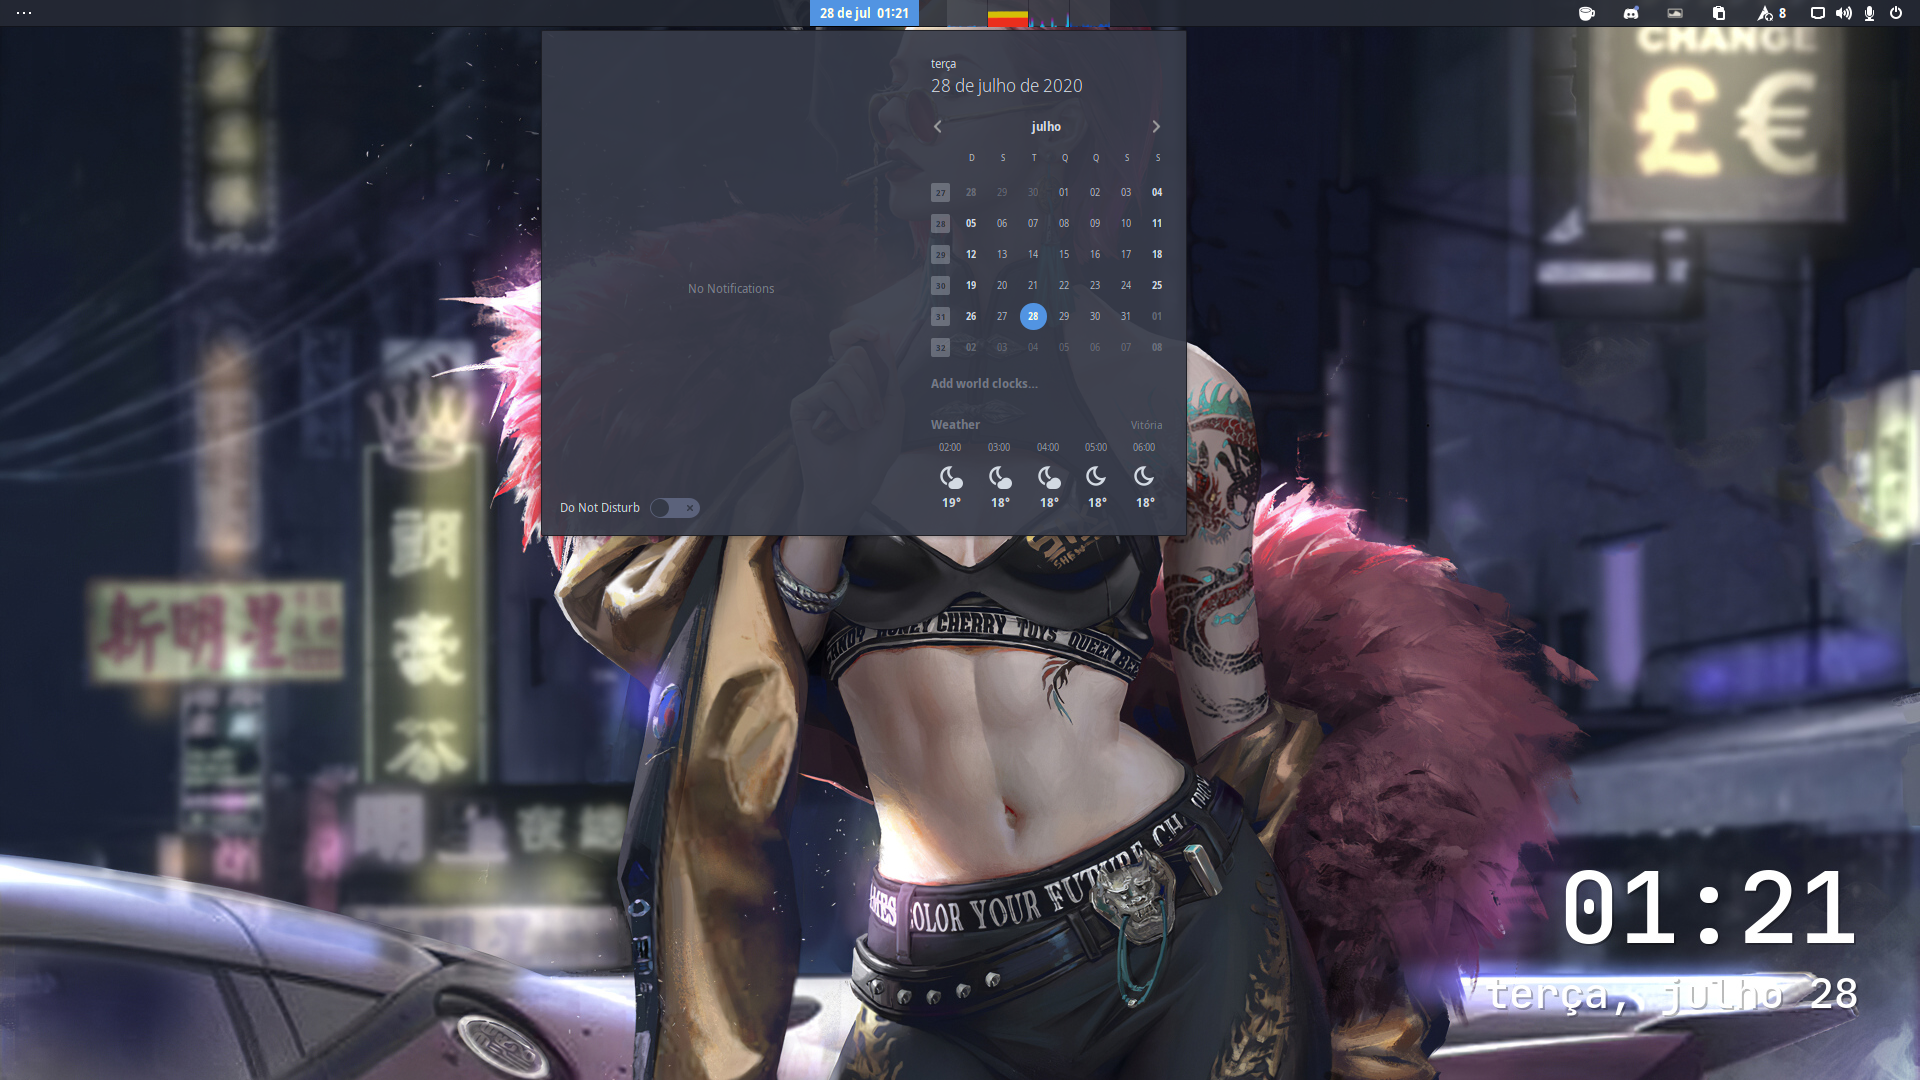
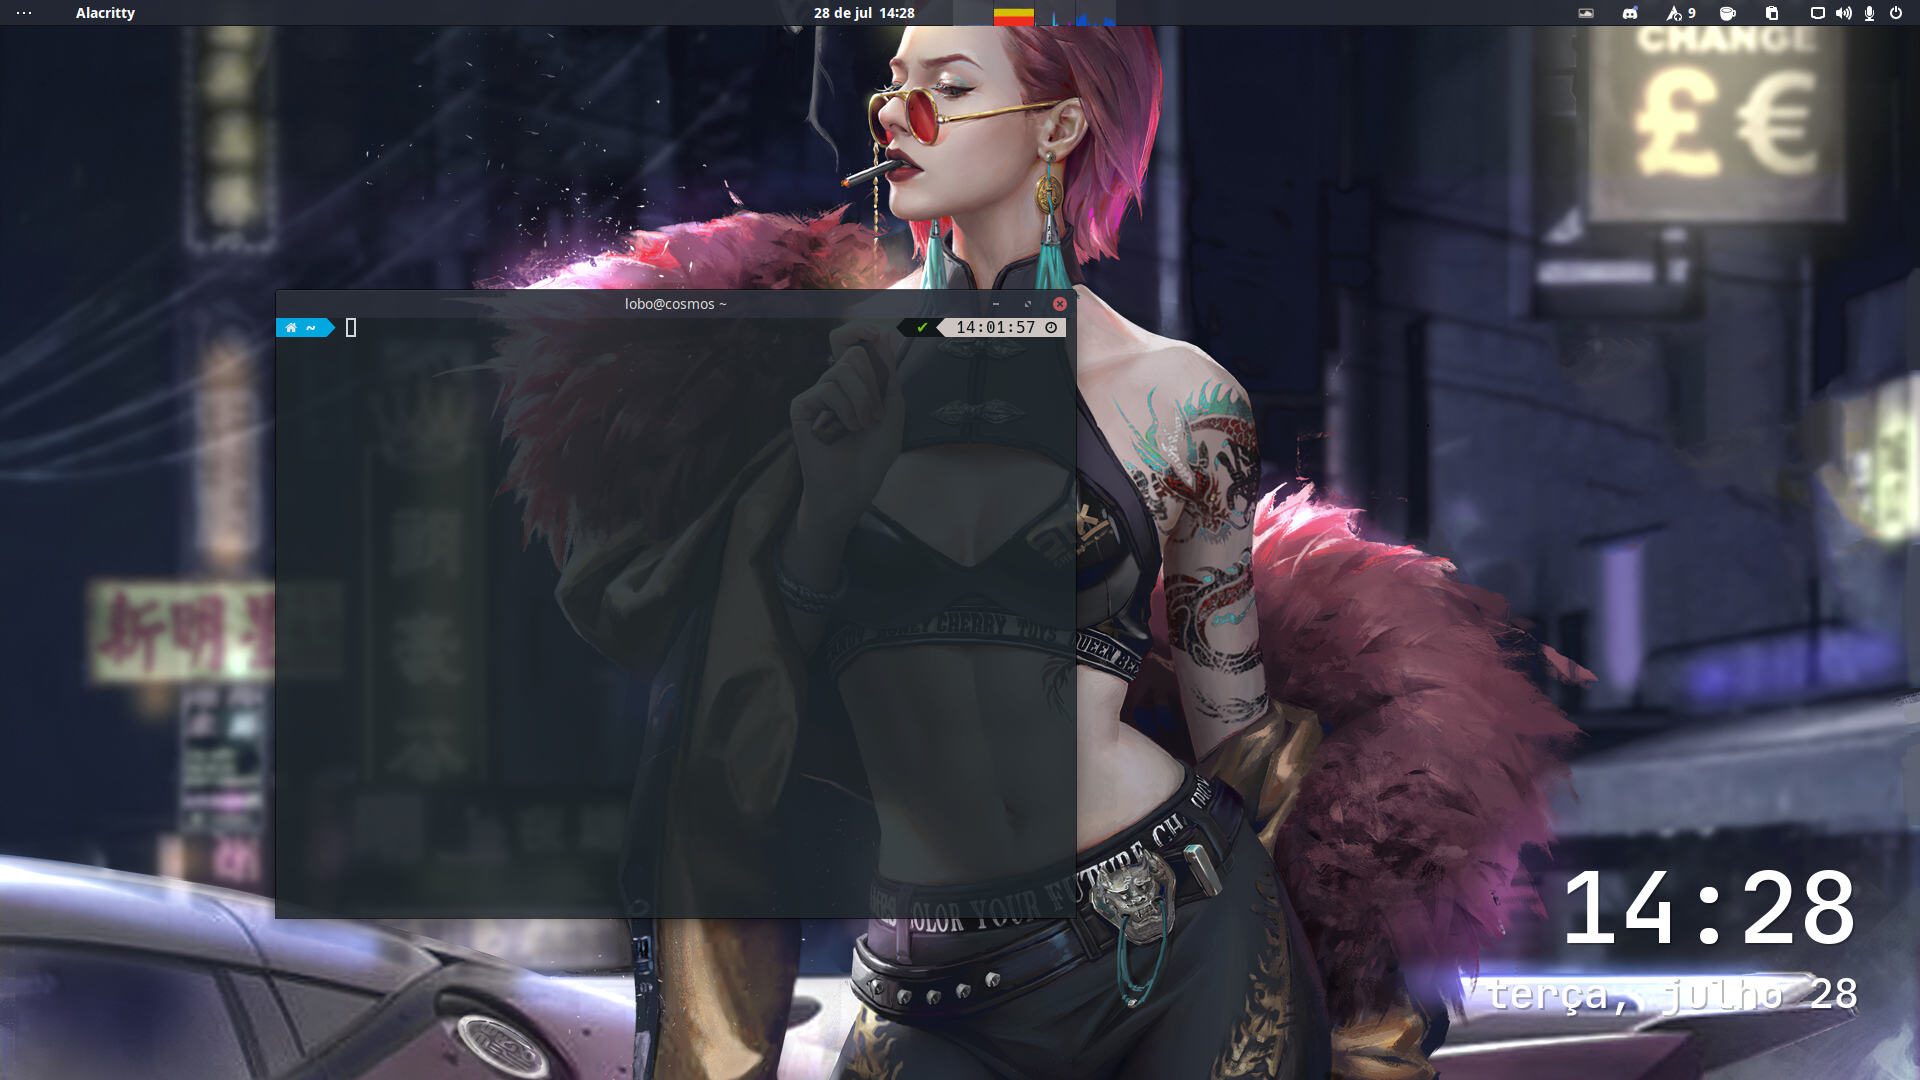
Reviewed topbar/panel adjustments

diff --git a/common/gnome-shell/3.36/sass/_common.scss b/common/gnome-shell/3.36/sass/_common.scss
@@ -802,10 +802,9 @@ StScrollBar {
 //
 #panel {
   font-weight: bold;
-  font-size: 13px;
+  font-size: 1.2em;
   font-feature-settings: "tnum";
-  height: 2em;
-  min-height: 22px;
+  height: 1.75em;
   background-gradient-direction: none;
   background-color: $shell_osd_background_color;
   //background-clip: padding-box;

diff --git a/README.md b/README.md
@@ -1,16 +1,19 @@
 # CHANGES FROM UPSTREAM
-+ Improved top bar visibility
-+ Slightly reduced top bar height 
++ Improved top bar visibility by increasing font size and slightly reducing bar height 
 + Made opaque elements subtly transparent
 
-**How it looks now?**
+**How it looks now**
 
-![Panel OSD](screenshots/arc-dark-glass1.png)
-![Title bar](screenshots/arc-dark-glass2.png)
+![Title bar](screenshots/arc-dark-glass1.png)
+![Panel OSD](screenshots/arc-dark-glass2.png)
 ![Overview](screenshots/arc-dark-glass3.png)
 
+**How it looked before**
 
-**README from upstream...**
+![Theme before](screenshots/arc-dark-glass0.png)
+
+
+**README from upstream bellow...**
 
 # Arc Theme
 
